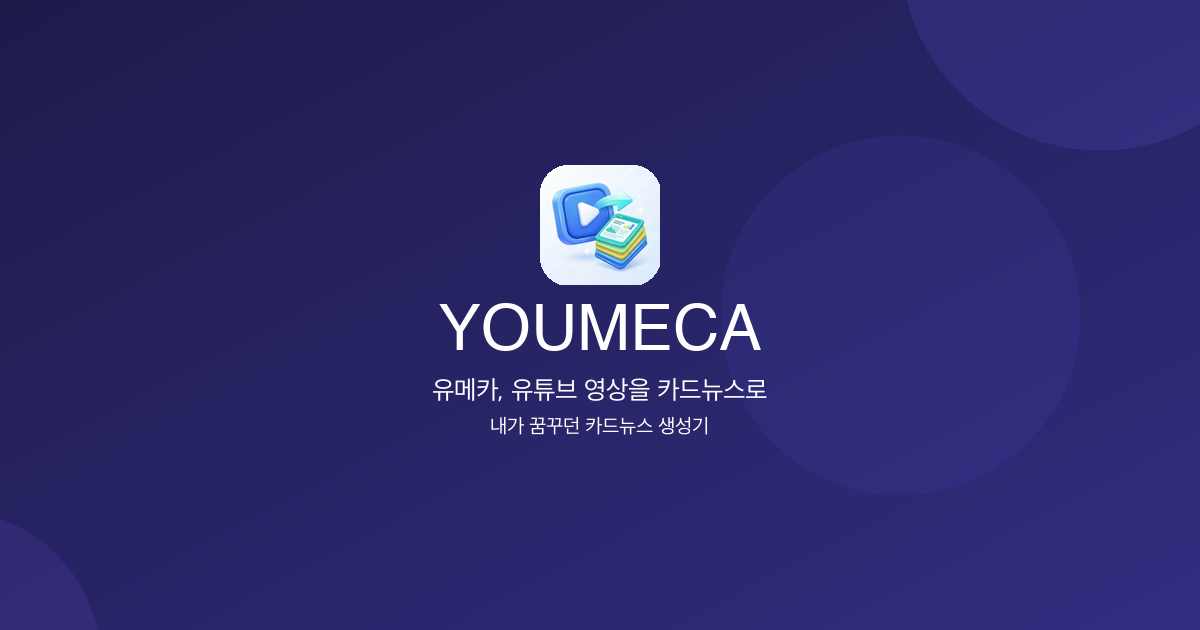
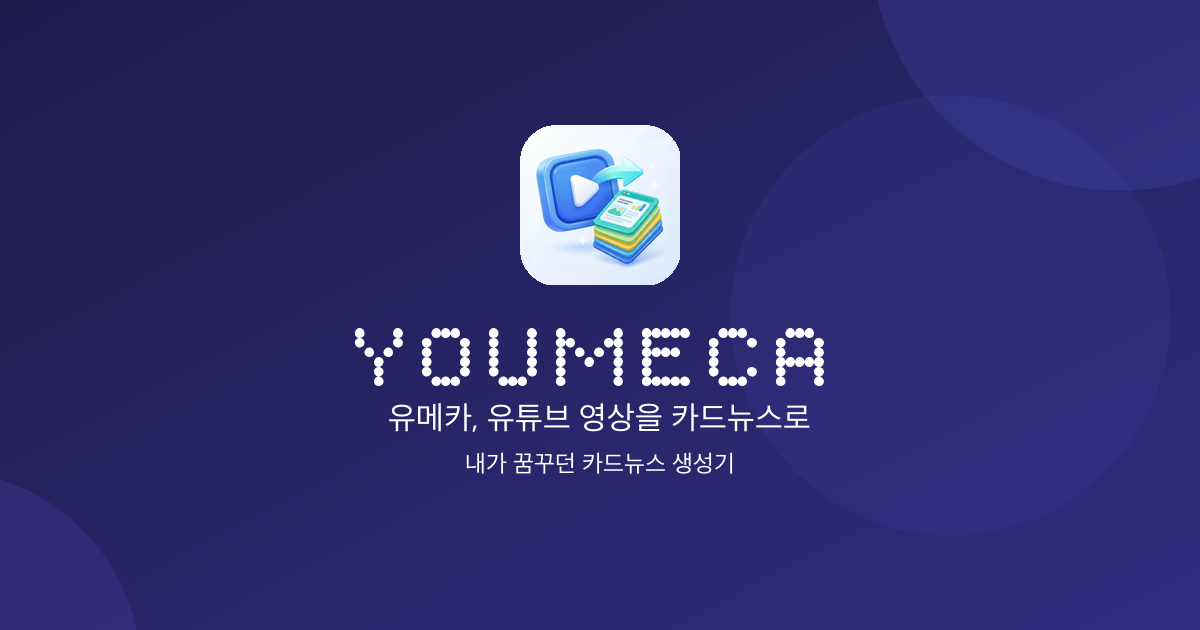
fix: OG 썸네일 Bitcount 폰트 적용 + 전체 사이즈 업
- YOUMECA 로고에 Bitcount Prop Single 폰트 적용 (96pt)
- 로고 아이콘 120→160px, 서브카피 26→32pt, 설명 20→24pt
- 장식 원 크기도 확대

diff --git a/scripts/gen-og-image.py b/scripts/gen-og-image.py
@@ -7,10 +7,10 @@ import os
 W, H = 1200, 630
 OUT = os.path.join(os.path.dirname(__file__), '..', 'public', 'og-image.png')
 LOGO = os.path.join(os.path.dirname(__file__), '..', 'public', 'icon-round.png')
+BITCOUNT_FONT = os.path.join(os.path.dirname(__file__), 'fonts', 'BitcountPropSingle.ttf')
 
 # Korean font
 KR_FONT = "/System/Library/Fonts/AppleSDGothicNeo.ttc"
-EN_FONT = "/System/Library/Fonts/Helvetica.ttc"
 
 img = Image.new('RGBA', (W, H))
 draw = ImageDraw.Draw(img)
@@ -36,44 +36,44 @@ def draw_circle(cx, cy, radius, color):
                 nb = int(bg[2] * (1 - a) + color[2] * a)
                 draw.point((x, y), fill=(nr, ng, nb, 255))
 
-draw_circle(W - 100, -50, 200, (99, 102, 241, 38))
-draw_circle(-50, H + 30, 150, (139, 92, 246, 31))
-draw_circle(W // 2 + 300, H // 2, 180, (99, 102, 241, 20))
+draw_circle(W - 80, -60, 250, (99, 102, 241, 38))
+draw_circle(-60, H + 40, 200, (139, 92, 246, 31))
+draw_circle(W // 2 + 350, H // 2, 220, (99, 102, 241, 20))
 
-# App logo
+# App logo — bigger
 logo = Image.open(LOGO).convert('RGBA')
-logo_size = 120
+logo_size = 160
 logo = logo.resize((logo_size, logo_size), Image.LANCZOS)
 mask = Image.new('L', (logo_size, logo_size), 0)
 mask_draw = ImageDraw.Draw(mask)
-mask_draw.rounded_rectangle([0, 0, logo_size, logo_size], radius=28, fill=255)
+mask_draw.rounded_rectangle([0, 0, logo_size, logo_size], radius=36, fill=255)
 logo.putalpha(mask)
 logo_x = (W - logo_size) // 2
-logo_y = H // 2 - 150
+logo_y = H // 2 - 190
 img.paste(logo, (logo_x, logo_y), logo)
 
-# Fonts
-font_large = ImageFont.truetype(EN_FONT, 64)
-font_sub = ImageFont.truetype(KR_FONT, 26)
-font_desc = ImageFont.truetype(KR_FONT, 20)
+# Fonts — Bitcount for YOUMECA, Korean for subtitles
+font_logo = ImageFont.truetype(BITCOUNT_FONT, 96)
+font_sub = ImageFont.truetype(KR_FONT, 32)
+font_desc = ImageFont.truetype(KR_FONT, 24)
 
-# YOUMECA title
+# YOUMECA title (Bitcount font)
 text = "YOUMECA"
-bbox = draw.textbbox((0, 0), text, font=font_large)
+bbox = draw.textbbox((0, 0), text, font=font_logo)
 tw = bbox[2] - bbox[0]
-draw.text(((W - tw) // 2, H // 2 - 15), text, fill=(255, 255, 255, 255), font=font_large)
+draw.text(((W - tw) // 2, H // 2 - 10), text, fill=(255, 255, 255, 255), font=font_logo)
 
 # Korean subtitle
 sub = "유메카, 유튜브 영상을 카드뉴스로"
 bbox2 = draw.textbbox((0, 0), sub, font=font_sub)
 tw2 = bbox2[2] - bbox2[0]
-draw.text(((W - tw2) // 2, H // 2 + 60), sub, fill=(255, 255, 255, 153), font=font_sub)
+draw.text(((W - tw2) // 2, H // 2 + 85), sub, fill=(255, 255, 255, 153), font=font_sub)
 
 # Description
 desc = "내가 꿈꾸던 카드뉴스 생성기"
 bbox3 = draw.textbbox((0, 0), desc, font=font_desc)
 tw3 = bbox3[2] - bbox3[0]
-draw.text(((W - tw3) // 2, H // 2 + 100), desc, fill=(255, 255, 255, 100), font=font_desc)
+draw.text(((W - tw3) // 2, H // 2 + 135), desc, fill=(255, 255, 255, 100), font=font_desc)
 
 img = img.convert('RGB')
 img.save(OUT, 'PNG', optimize=True)
